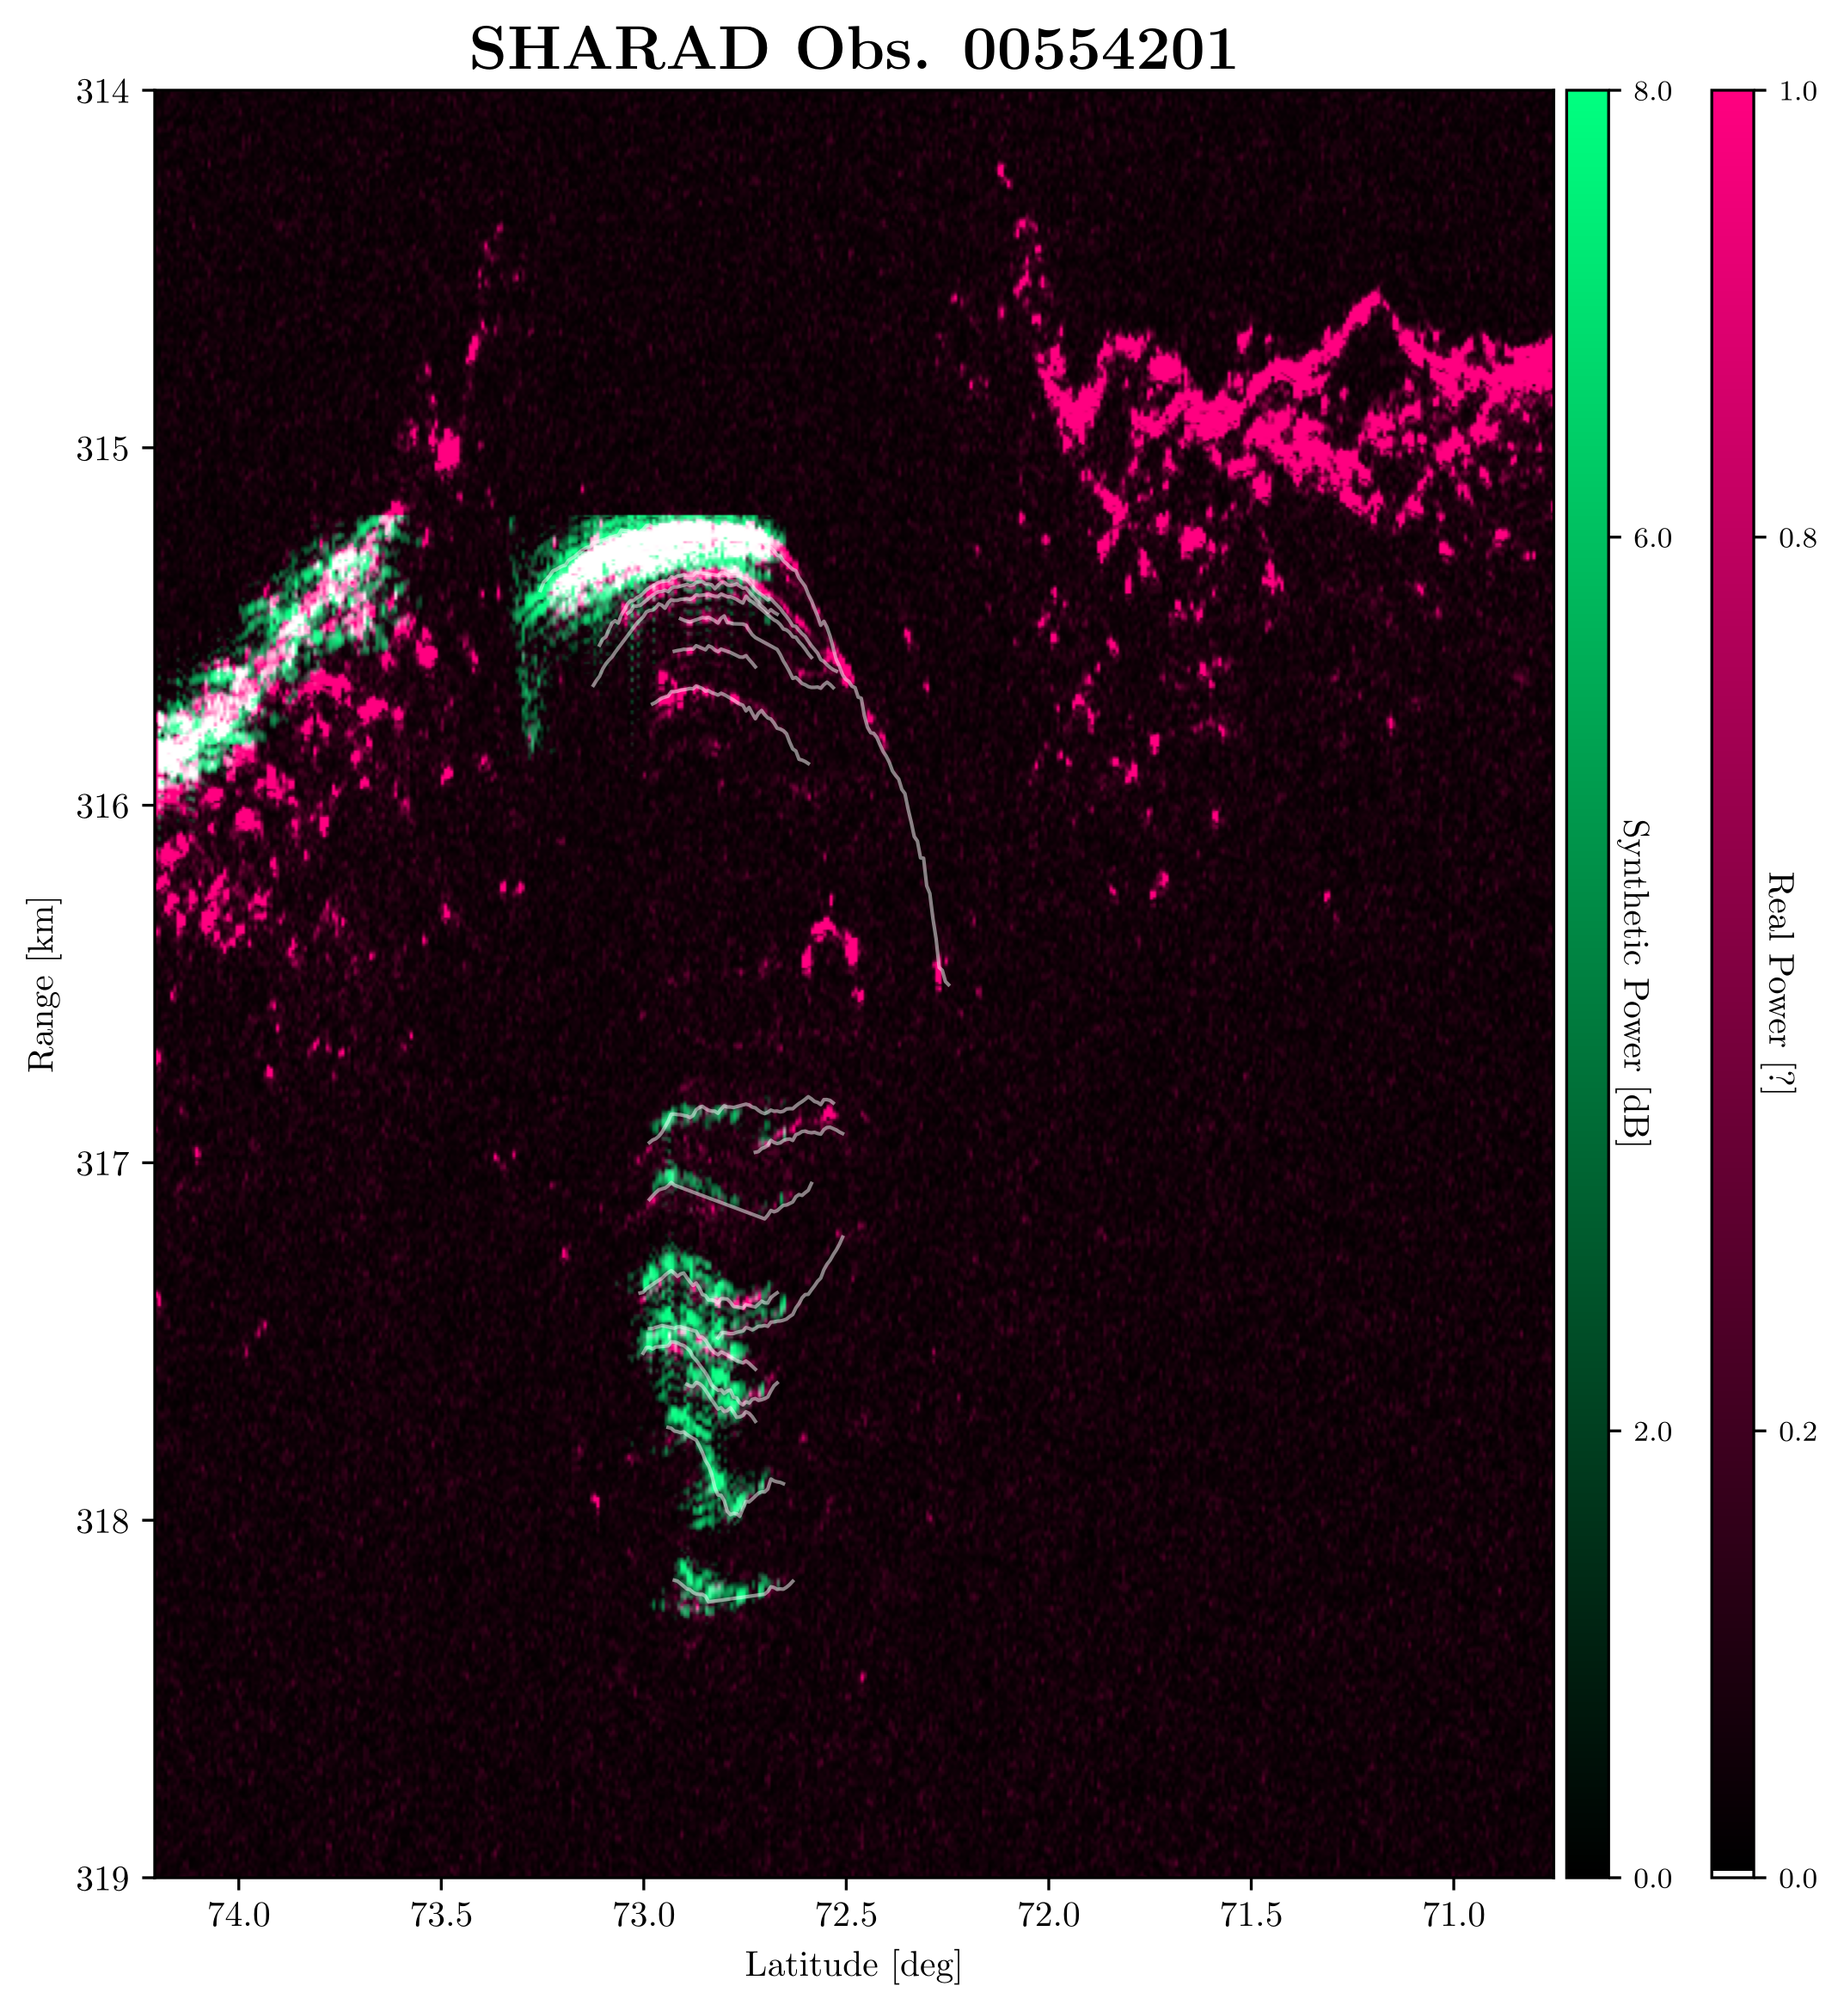
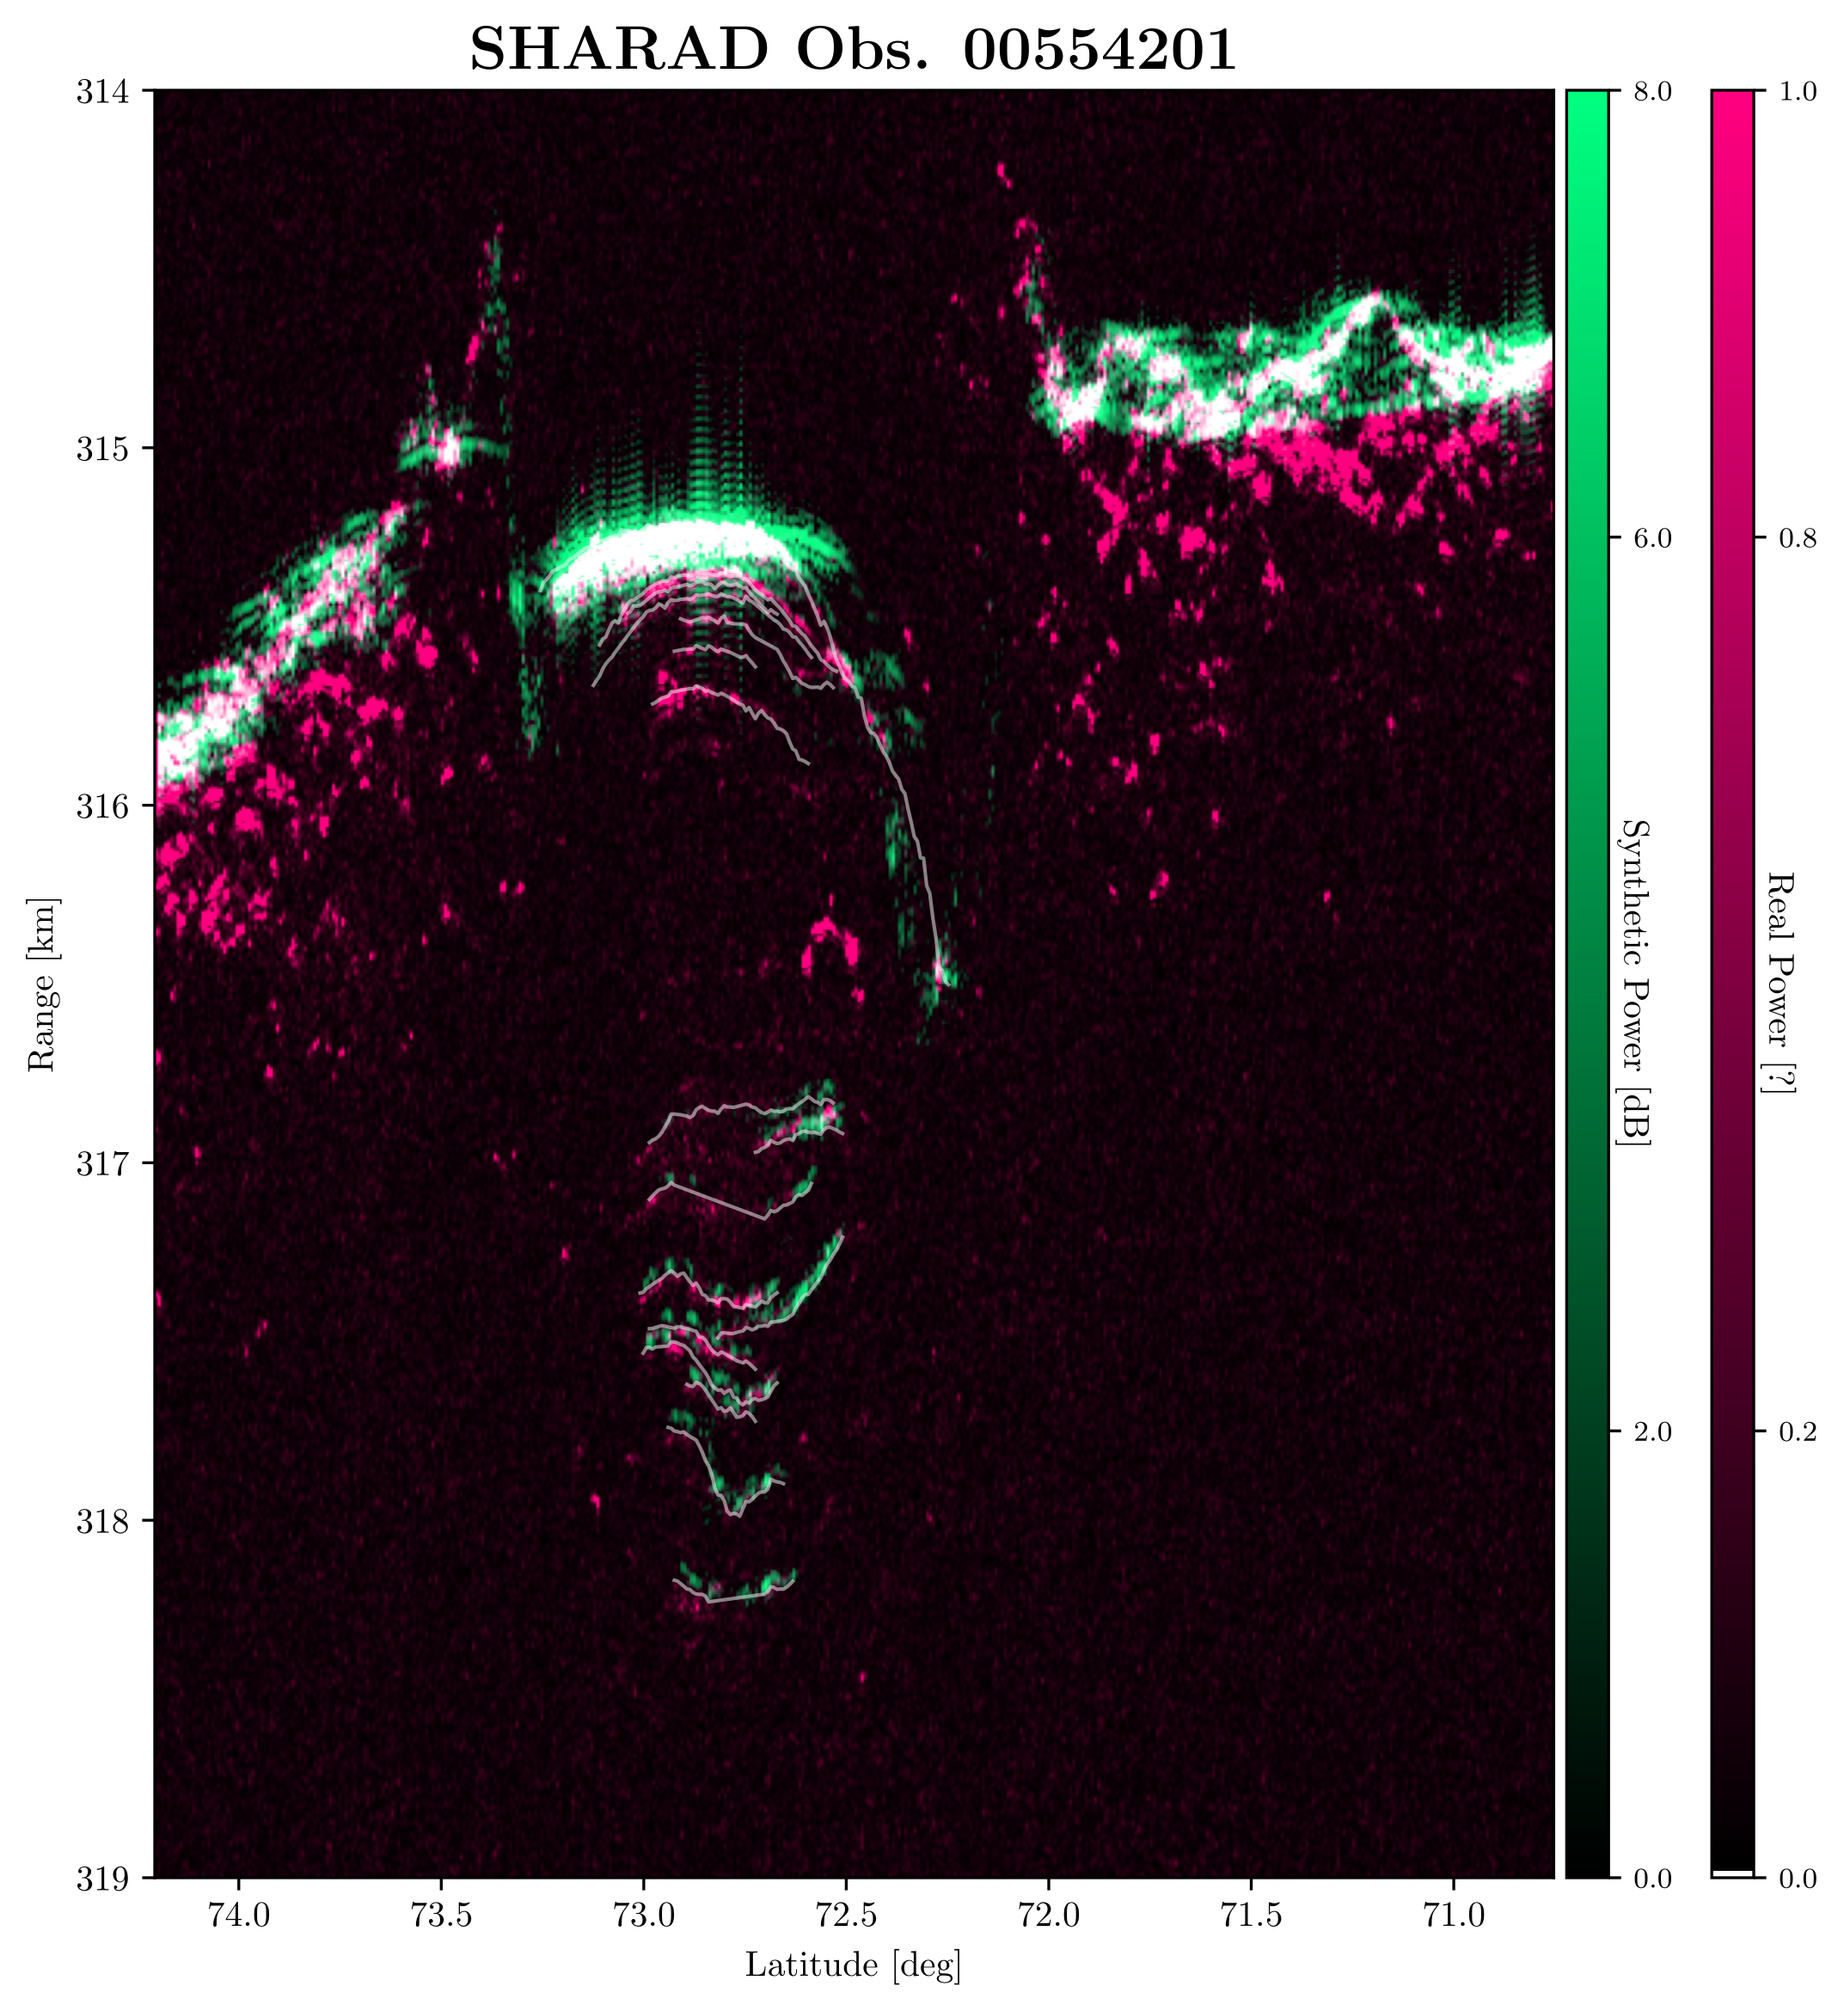
Adaptive Gain Control

diff --git a/examples/KOROLEV/code/params.py b/examples/KOROLEV/code/params.py
@@ -18,6 +18,7 @@ params = {
     "subsurface_gain": 35,    # Subsurface antenna gain [dB]
     "polarization": "HH",     # polarization (HH, VV, HV, VH)
     "aperture": 1,            # aperture (from nadir->edge) [deg]
+    "gain_pattern_file": "data/source_gain.txt", # file with gain pattern [dB]
 
     # receive window parameters
     "rx_window_m":  7.5e3,         # receive window length [m]
@@ -64,11 +65,7 @@ with open("data/params.pkl", 'wb') as hdl:
 NS = 2000
 sharad_data_path = "data/Observation/rdr-cosharps/r_0554201_001_ss19_700_a.dat"
 data = ku.load_SHARAD_RDR(sharad_data_path, st=18000, en=30000, latmin=70.768, latmax=74.2075)
-#ku.rxOpenWindow(data, "data/rx_window_positions", NS)
-# temp clip
-nfin = 900
-data = data[:nfin]
-ku.rxOpenWindow(data, "data/rx_window_positions", nfin)
+ku.rxOpenWindow(data, "data/rx_window_positions", NS)
 
 # estimate the effective PRF
 duration = data['EPHEMERIS_TIME'][-1] - data['EPHEMERIS_TIME'][0]
@@ -77,6 +74,9 @@ prf = NS / duration
 print(f"Therefore the PRF is {prf} Hz")
 prf_data = len(data) / duration
 print(f"The input (RDR) data has an approximate prf of {prf_data} Hz")
+
+# --- EXPORT ADAPTIVE GAIN ---
+ku.gainCorrection("data/source_gain", NS)
 
 # --- GENERATE SOURCE FILE ---
 
@@ -105,11 +105,6 @@ sat_x, sat_y, sat_z = ku.planetocentric_to_cartesian(geometry['SRAD'], geometry[
 
 # interpolate
 sat_x, sat_y, sat_z = uc.interpolate_sources(NS, sat_x, sat_y, sat_z)
-
-# tmp clip
-sat_x = sat_x[:nfin]
-sat_y = sat_y[:nfin]
-sat_z = sat_z[:nfin]
 
 # convert from KM into M
 sat_x, sat_y, sat_z = uc.km_to_m(sat_x, sat_y, sat_z)

diff --git a/src/PYTHON/kutil.py b/src/PYTHON/kutil.py
@@ -472,6 +472,26 @@ def rxOpenWindow(data, filename, ns):
     with open(f"{filename}.txt", 'w') as f:
         for pos in rx_win_upsample:
             f.write(f"{round(pos)}\n")
+
+def gainCorrection(filename, ns):
+
+    gainSt = 37.5
+    gainEn = 35
+
+    high_gain = int(ns * (800 / 2000))
+    low_gain  = int(ns * (825 / 2000))
+
+    gain_array = np.ones(ns) * gainEn
+    gain_array[:high_gain] = gainSt
+    gain_array[high_gain:low_gain] = np.linspace(gainSt, gainEn, low_gain - high_gain)
+
+    surf_gain = 20 * np.ones(ns)
+
+    # write to file
+    with open(f"{filename}.txt", "w") as f:
+        for g1, g2 in zip(surf_gain, gain_array):
+            f.write(f"{g1},{g2}\n")
+
     
 def plot_SHARAD_RDR(data, geometry):
 
